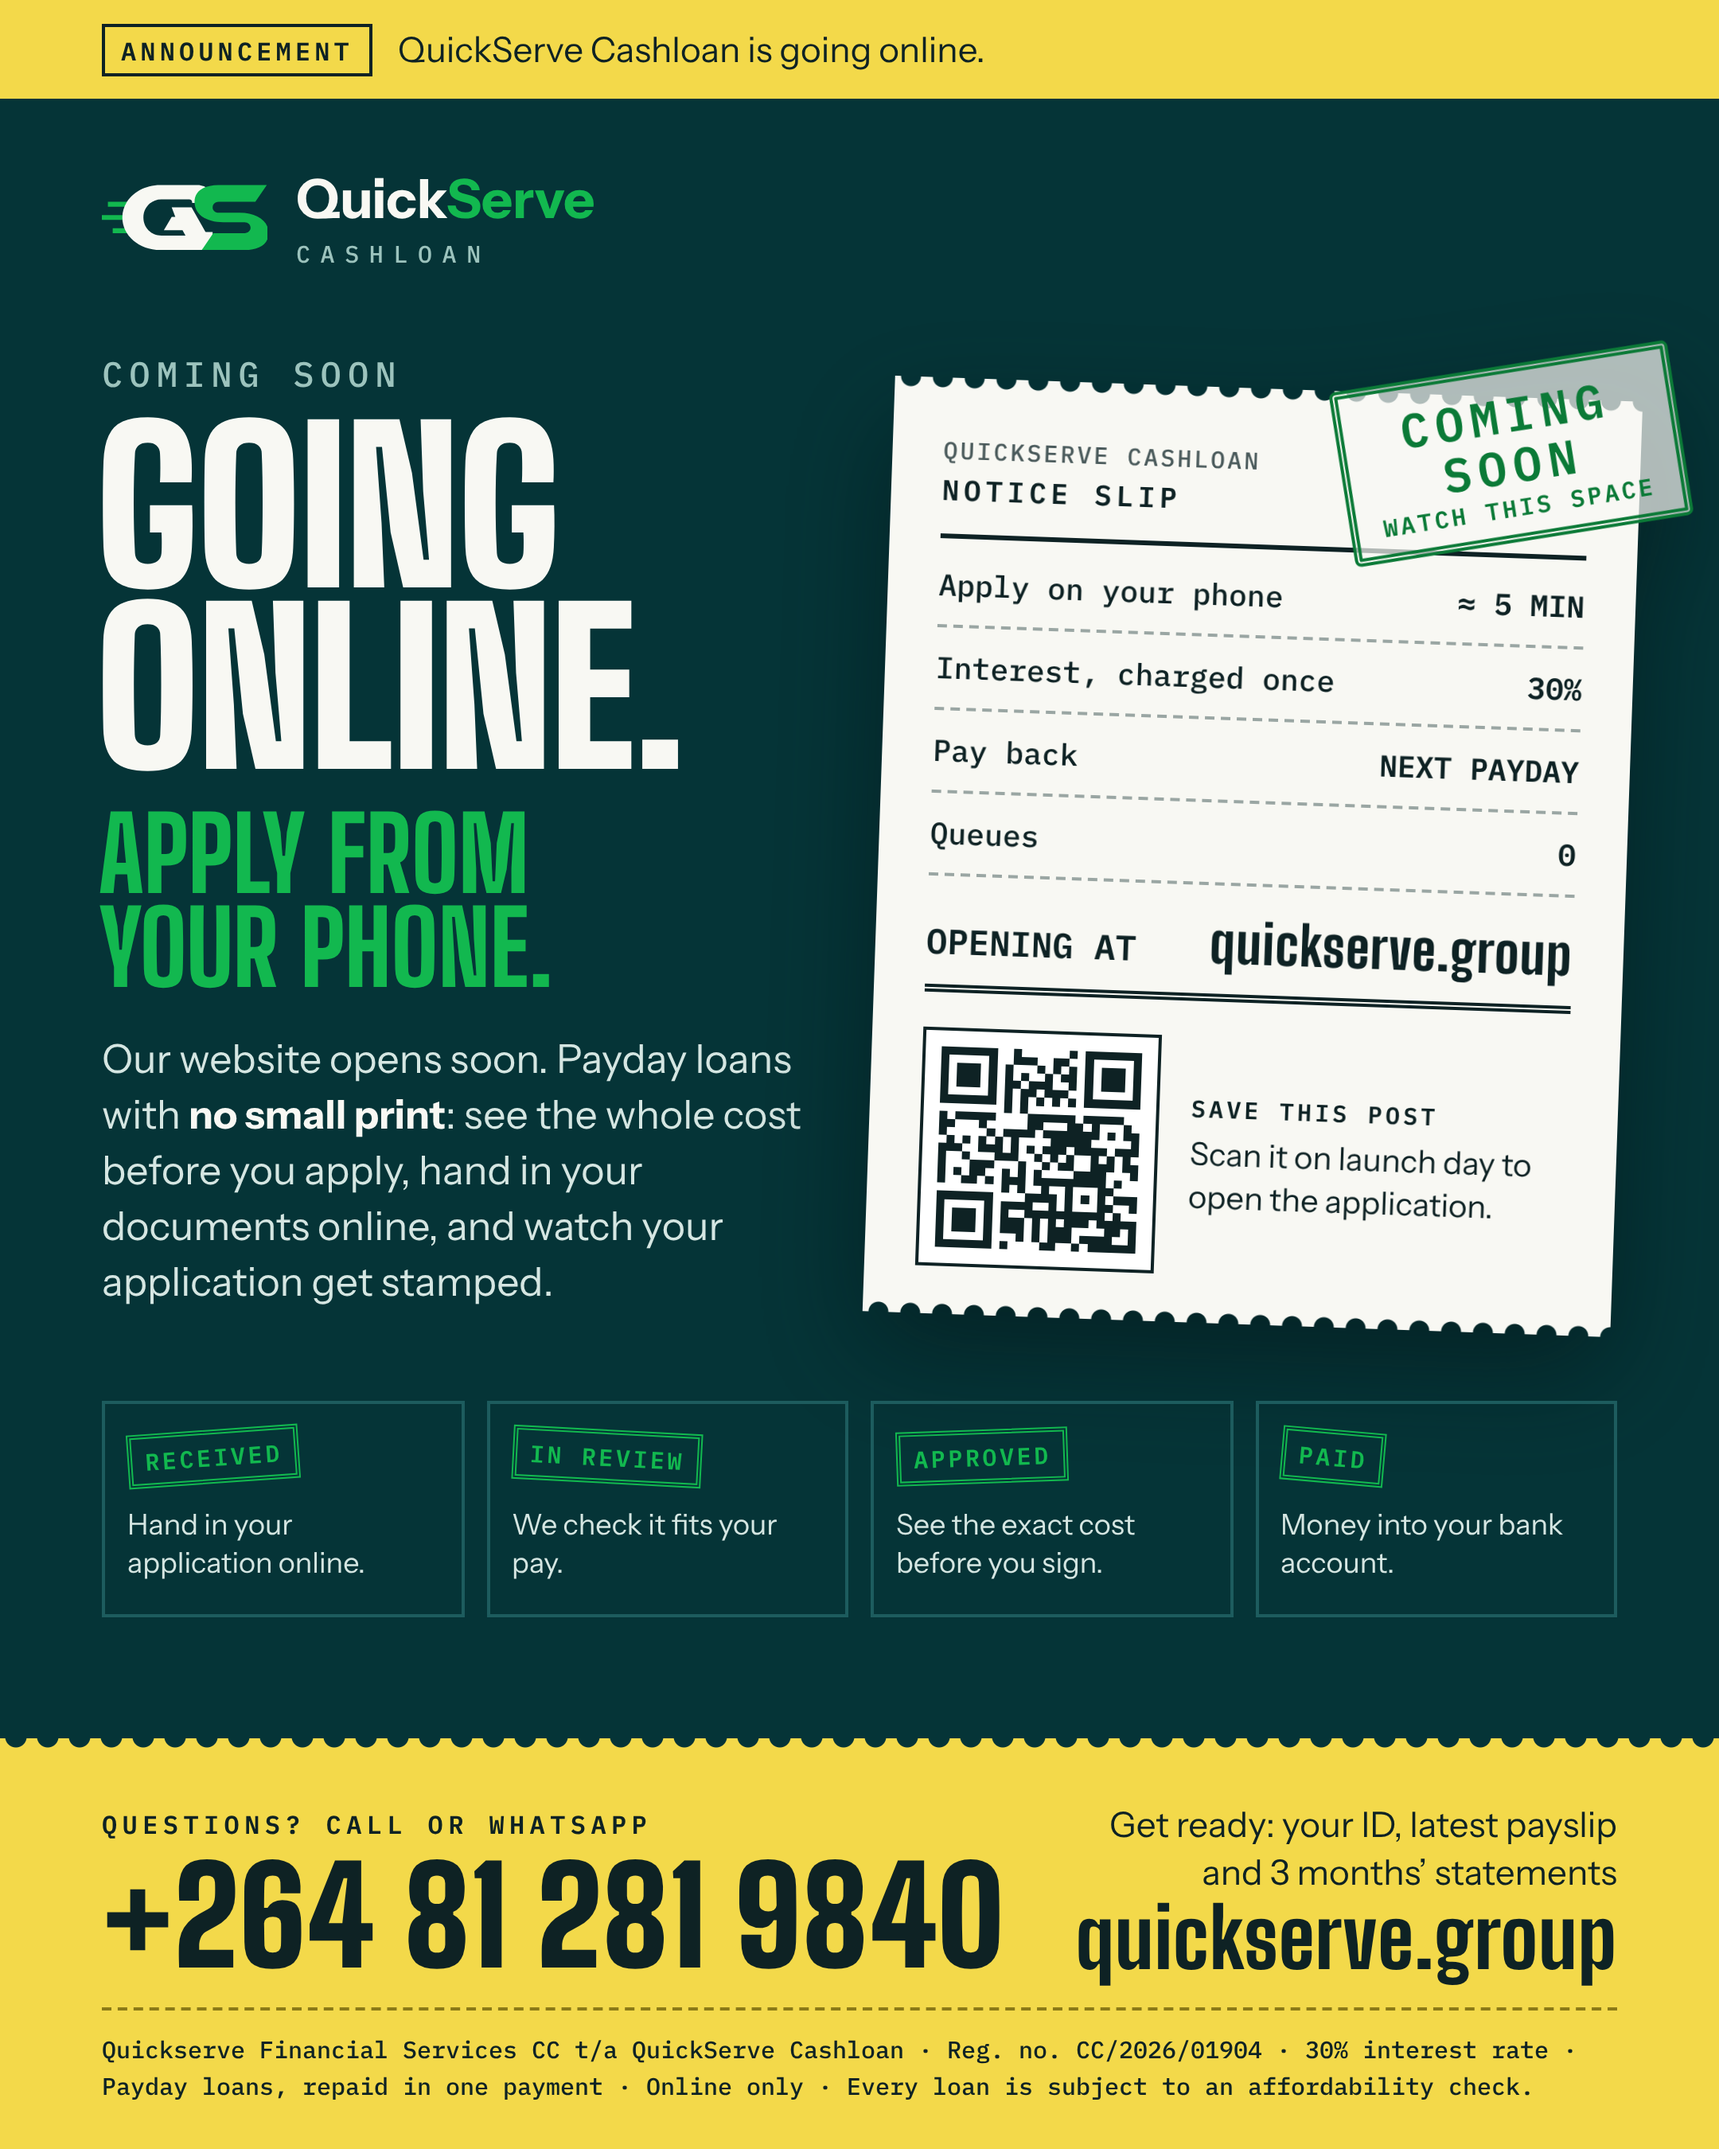
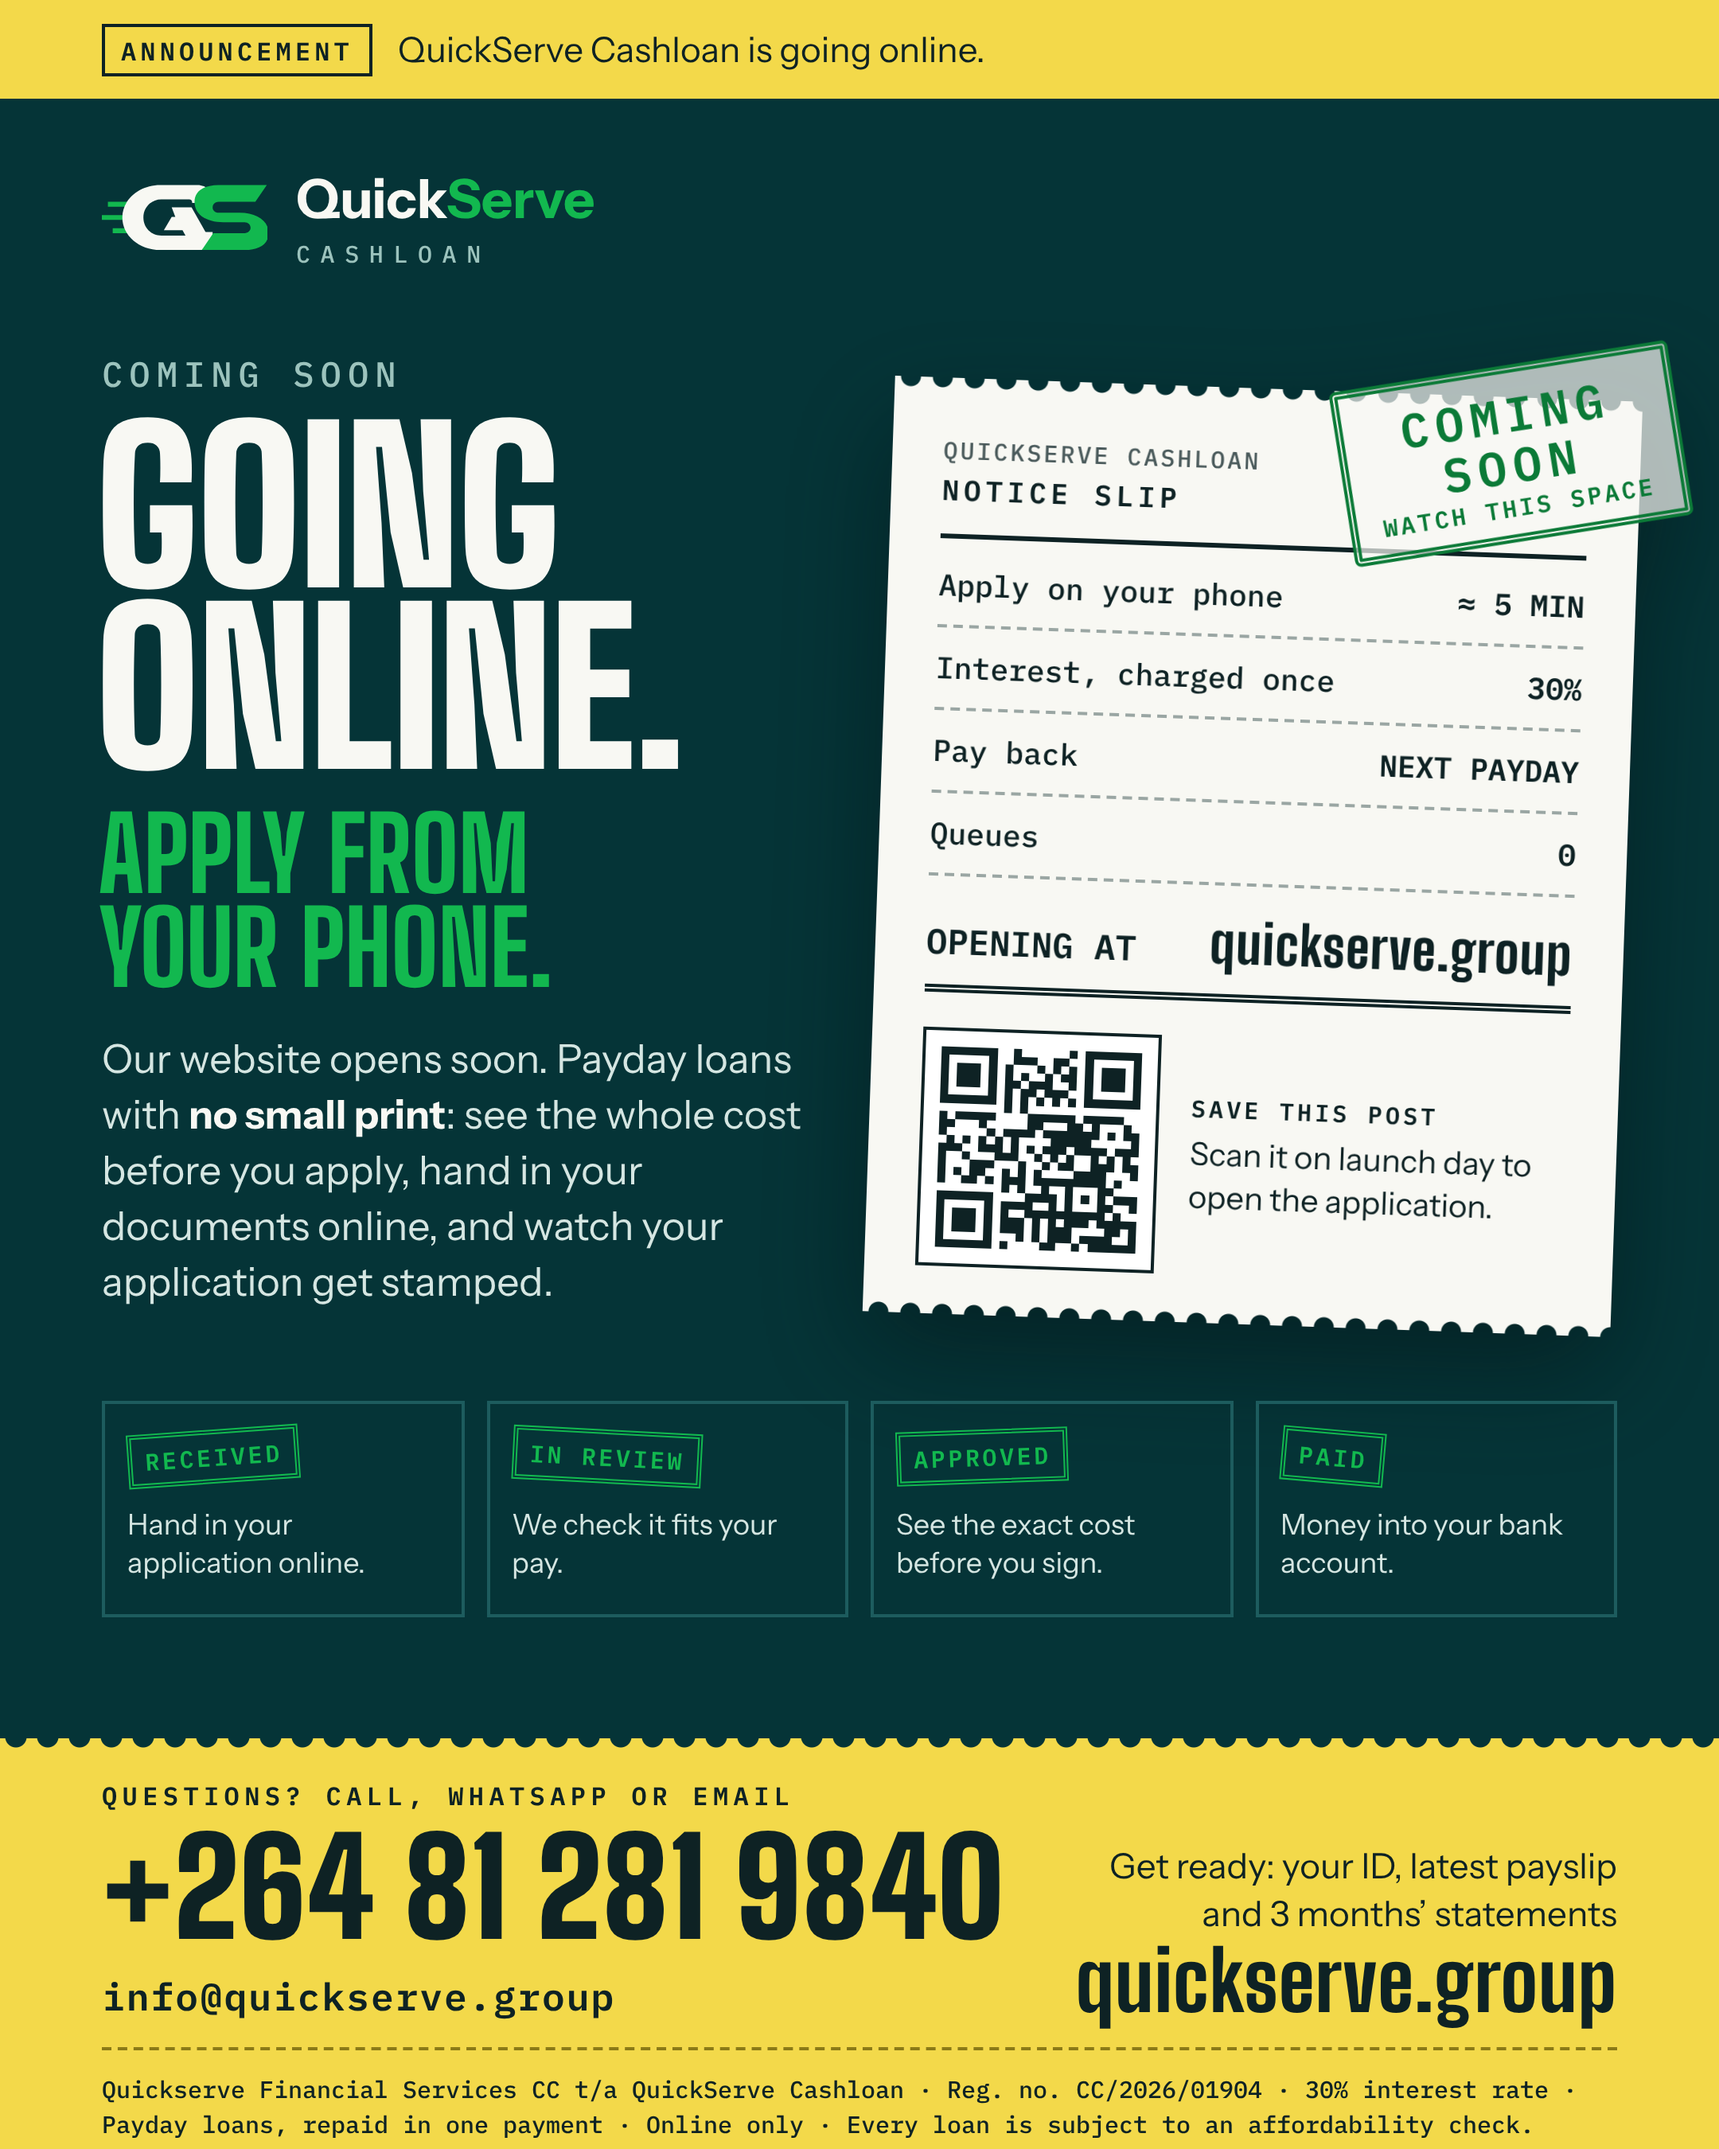
Show info@quickserve.group on the website footer, flyer and posters
The website footer and the marketing artwork only listed the phone
number. Add the info@quickserve.group address (a mailto link on the
website) and re-render the flyer and the four launch / coming-soon
posters. The poster footers and the flyer's contact bar were tightened
slightly to fit the extra line; the renderers' overlap checks pass.

Claude-Session: https://claude.ai/code/session_013xZD9AR4C9LVD4JnKuAJrT

Changed region(s): [[0.062, 0.8089, 0.9616, 0.9956]]

diff --git a/marketing/website-coming-soon-status.html b/marketing/website-coming-soon-status.html
@@ -119,9 +119,10 @@ h2{position:absolute;left:62px;top:508px;width:460px;margin:0;font:800 64px/.92 
 
 .foot{position:absolute;left:0;right:0;bottom:0;height:258px;background:var(--canary);color:var(--ink);padding:0 64px}
 .perf{position:absolute;left:0;right:0;top:-1px;height:16px;background:radial-gradient(circle at 10px 0,var(--desk) 6.5px,transparent 7px) 0 0/20px 16px repeat-x}
-.frow{display:flex;justify-content:space-between;align-items:flex-end;gap:24px;padding-top:40px;padding-bottom:18px;border-bottom:2px dashed #8b7a17}
+.frow{display:flex;justify-content:space-between;align-items:flex-end;gap:24px;padding-top:26px;padding-bottom:16px;border-bottom:2px dashed #8b7a17}
 .frow .k{font:600 16px var(--mono);letter-spacing:.2em}
 .frow .phone{font:900 84px/.95 var(--display);margin-top:8px}
+.frow .mail{font:600 24px var(--mono);letter-spacing:.04em;margin-top:12px}
 .frow .web{text-align:right;font-size:22px;line-height:1.35} .frow .web b{display:block;font:800 52px/1 var(--display);letter-spacing:.01em}
 .legal{margin:14px 0 0;font:500 15px/1.5 var(--mono)}
 
@@ -143,9 +144,9 @@ h2{top:598px;width:960px;font-size:80px}
 .stamp{right:-34px;top:-30px;font-size:36px}
 .steps{top:1528px;left:64px;right:64px;gap:12px}
 .step{min-height:0;padding:12px 12px 10px} .step p{display:none}
-.foot{bottom:150px;height:auto;padding-bottom:22px}
-.frow{padding-top:34px;padding-bottom:0;border-bottom:0}
-.frow .phone{font-size:74px} .frow .web b{font-size:46px}
+.foot{bottom:150px;height:auto;padding-bottom:12px}
+.frow{padding-top:20px;padding-bottom:0;border-bottom:0}
+.frow .phone{font-size:74px} .frow .mail{font-size:22px;margin-top:8px} .frow .web b{font-size:46px}
 .legal{display:none}
 </style>
 </head>
@@ -186,7 +187,7 @@ h2{top:598px;width:960px;font-size:80px}
   <div class="foot">
     <div class="perf"></div>
     <div class="frow">
-      <div><div class="k">QUESTIONS? CALL OR WHATSAPP</div><div class="phone">+264 81 281 9840</div></div>
+      <div><div class="k">QUESTIONS? CALL, WHATSAPP OR EMAIL</div><div class="phone">+264 81 281 9840</div><div class="mail">info@quickserve.group</div></div>
       <div class="web">Get ready: your ID, latest payslip<br>and 3 months’ statements<b>quickserve.group</b></div>
     </div>
     <p class="legal">Quickserve Financial Services CC t/a QuickServe Cashloan · Reg. no. CC/2026/01904 · 30% interest rate · Payday loans, repaid in one payment · Online only · Every loan is subject to an affordability check.</p>

diff --git a/marketing/website-launch-status.html b/marketing/website-launch-status.html
@@ -119,9 +119,10 @@ h2{position:absolute;left:62px;top:508px;width:460px;margin:0;font:800 64px/.92 
 
 .foot{position:absolute;left:0;right:0;bottom:0;height:258px;background:var(--canary);color:var(--ink);padding:0 64px}
 .perf{position:absolute;left:0;right:0;top:-1px;height:16px;background:radial-gradient(circle at 10px 0,var(--desk) 6.5px,transparent 7px) 0 0/20px 16px repeat-x}
-.frow{display:flex;justify-content:space-between;align-items:flex-end;gap:24px;padding-top:40px;padding-bottom:18px;border-bottom:2px dashed #8b7a17}
+.frow{display:flex;justify-content:space-between;align-items:flex-end;gap:24px;padding-top:26px;padding-bottom:16px;border-bottom:2px dashed #8b7a17}
 .frow .k{font:600 16px var(--mono);letter-spacing:.2em}
 .frow .phone{font:900 84px/.95 var(--display);margin-top:8px}
+.frow .mail{font:600 24px var(--mono);letter-spacing:.04em;margin-top:12px}
 .frow .web{text-align:right;font-size:22px;line-height:1.35} .frow .web b{display:block;font:800 52px/1 var(--display);letter-spacing:.01em}
 .legal{margin:14px 0 0;font:500 15px/1.5 var(--mono)}
 
@@ -143,9 +144,9 @@ h2{top:598px;width:960px;font-size:80px}
 .stamp{right:-34px;top:-30px;font-size:36px}
 .steps{top:1528px;left:64px;right:64px;gap:12px}
 .step{min-height:0;padding:12px 12px 10px} .step p{display:none}
-.foot{bottom:150px;height:auto;padding-bottom:22px}
-.frow{padding-top:34px;padding-bottom:0;border-bottom:0}
-.frow .phone{font-size:74px} .frow .web b{font-size:46px}
+.foot{bottom:150px;height:auto;padding-bottom:12px}
+.frow{padding-top:20px;padding-bottom:0;border-bottom:0}
+.frow .phone{font-size:74px} .frow .mail{font-size:22px;margin-top:8px} .frow .web b{font-size:46px}
 .legal{display:none}
 </style>
 </head>
@@ -186,7 +187,7 @@ h2{top:598px;width:960px;font-size:80px}
   <div class="foot">
     <div class="perf"></div>
     <div class="frow">
-      <div><div class="k">QUESTIONS? CALL OR WHATSAPP</div><div class="phone">+264 81 281 9840</div></div>
+      <div><div class="k">QUESTIONS? CALL, WHATSAPP OR EMAIL</div><div class="phone">+264 81 281 9840</div><div class="mail">info@quickserve.group</div></div>
       <div class="web">Bring your ID, latest payslip<br>and 3 months’ statements<b>quickserve.group</b></div>
     </div>
     <p class="legal">Quickserve Financial Services CC t/a QuickServe Cashloan · Reg. no. CC/2026/01904 · 30% interest rate · Payday loans, repaid in one payment · Online only · Every loan is subject to an affordability check.</p>

diff --git a/marketing/website-coming-soon-poster.html b/marketing/website-coming-soon-poster.html
@@ -119,9 +119,10 @@ h2{position:absolute;left:62px;top:508px;width:460px;margin:0;font:800 64px/.92 
 
 .foot{position:absolute;left:0;right:0;bottom:0;height:258px;background:var(--canary);color:var(--ink);padding:0 64px}
 .perf{position:absolute;left:0;right:0;top:-1px;height:16px;background:radial-gradient(circle at 10px 0,var(--desk) 6.5px,transparent 7px) 0 0/20px 16px repeat-x}
-.frow{display:flex;justify-content:space-between;align-items:flex-end;gap:24px;padding-top:40px;padding-bottom:18px;border-bottom:2px dashed #8b7a17}
+.frow{display:flex;justify-content:space-between;align-items:flex-end;gap:24px;padding-top:26px;padding-bottom:16px;border-bottom:2px dashed #8b7a17}
 .frow .k{font:600 16px var(--mono);letter-spacing:.2em}
 .frow .phone{font:900 84px/.95 var(--display);margin-top:8px}
+.frow .mail{font:600 24px var(--mono);letter-spacing:.04em;margin-top:12px}
 .frow .web{text-align:right;font-size:22px;line-height:1.35} .frow .web b{display:block;font:800 52px/1 var(--display);letter-spacing:.01em}
 .legal{margin:14px 0 0;font:500 15px/1.5 var(--mono)}
 </style>
@@ -163,7 +164,7 @@ h2{position:absolute;left:62px;top:508px;width:460px;margin:0;font:800 64px/.92 
   <div class="foot">
     <div class="perf"></div>
     <div class="frow">
-      <div><div class="k">QUESTIONS? CALL OR WHATSAPP</div><div class="phone">+264 81 281 9840</div></div>
+      <div><div class="k">QUESTIONS? CALL, WHATSAPP OR EMAIL</div><div class="phone">+264 81 281 9840</div><div class="mail">info@quickserve.group</div></div>
       <div class="web">Get ready: your ID, latest payslip<br>and 3 months’ statements<b>quickserve.group</b></div>
     </div>
     <p class="legal">Quickserve Financial Services CC t/a QuickServe Cashloan · Reg. no. CC/2026/01904 · 30% interest rate · Payday loans, repaid in one payment · Online only · Every loan is subject to an affordability check.</p>

diff --git a/marketing/website-launch-poster.html b/marketing/website-launch-poster.html
@@ -119,9 +119,10 @@ h2{position:absolute;left:62px;top:508px;width:460px;margin:0;font:800 64px/.92 
 
 .foot{position:absolute;left:0;right:0;bottom:0;height:258px;background:var(--canary);color:var(--ink);padding:0 64px}
 .perf{position:absolute;left:0;right:0;top:-1px;height:16px;background:radial-gradient(circle at 10px 0,var(--desk) 6.5px,transparent 7px) 0 0/20px 16px repeat-x}
-.frow{display:flex;justify-content:space-between;align-items:flex-end;gap:24px;padding-top:40px;padding-bottom:18px;border-bottom:2px dashed #8b7a17}
+.frow{display:flex;justify-content:space-between;align-items:flex-end;gap:24px;padding-top:26px;padding-bottom:16px;border-bottom:2px dashed #8b7a17}
 .frow .k{font:600 16px var(--mono);letter-spacing:.2em}
 .frow .phone{font:900 84px/.95 var(--display);margin-top:8px}
+.frow .mail{font:600 24px var(--mono);letter-spacing:.04em;margin-top:12px}
 .frow .web{text-align:right;font-size:22px;line-height:1.35} .frow .web b{display:block;font:800 52px/1 var(--display);letter-spacing:.01em}
 .legal{margin:14px 0 0;font:500 15px/1.5 var(--mono)}
 </style>
@@ -163,7 +164,7 @@ h2{position:absolute;left:62px;top:508px;width:460px;margin:0;font:800 64px/.92 
   <div class="foot">
     <div class="perf"></div>
     <div class="frow">
-      <div><div class="k">QUESTIONS? CALL OR WHATSAPP</div><div class="phone">+264 81 281 9840</div></div>
+      <div><div class="k">QUESTIONS? CALL, WHATSAPP OR EMAIL</div><div class="phone">+264 81 281 9840</div><div class="mail">info@quickserve.group</div></div>
       <div class="web">Bring your ID, latest payslip<br>and 3 months’ statements<b>quickserve.group</b></div>
     </div>
     <p class="legal">Quickserve Financial Services CC t/a QuickServe Cashloan · Reg. no. CC/2026/01904 · 30% interest rate · Payday loans, repaid in one payment · Online only · Every loan is subject to an affordability check.</p>

diff --git a/marketing/quickserve-flyer.html b/marketing/quickserve-flyer.html
@@ -153,7 +153,7 @@ body {
 /* ---------- contact bar ---------- */
 .contact {
   position: absolute; left: 62px; right: 62px; bottom: 96px; z-index: 5;
-  height: 148px; border-radius: 26px;
+  height: 170px; border-radius: 26px;
   border: 2.5px solid rgba(10,91,84,.34);
   background: rgba(255,255,255,.55);
   display: flex; align-items: center; padding: 0 32px; gap: 26px;
@@ -178,11 +178,16 @@ body {
   display: inline-block; background: var(--amber);
   color: #3d2a00; font-weight: 600; font-size: 19px;
   letter-spacing: 1.6px; padding: 7px 17px; border-radius: 7px;
-  margin-bottom: 9px;
+  margin-bottom: 6px;
 }
 .contact .digits {
   font-weight: 700; font-size: 46px; color: var(--ink);
   letter-spacing: -1.4px; white-space: nowrap;
+}
+
+.contact .mail {
+  font-family: Inter, sans-serif; font-weight: 600; font-size: 21px;
+  color: var(--body); letter-spacing: -0.2px; white-space: nowrap; margin-top: 2px;
 }
 
 /* ---------- compliance disclosure ribbon ---------- */
@@ -403,6 +408,7 @@ body {
     <span class="pill">CONTACT US</span>
     <!-- ===== CONTACT NUMBER — edit this one line ===== -->
     <div class="digits">+264 81 281 9840</div>
+    <div class="mail">info@quickserve.group</div>
   </div>
 </div>
 

diff --git a/web/styles.css b/web/styles.css
@@ -156,6 +156,8 @@ button, input, select, textarea { font: inherit; color: inherit; }
 .perf-edge { height: 14px; background: radial-gradient(circle at 9px 0, var(--edge, var(--ground)) 5px, transparent 5.5px) 0 0 / 18px 14px repeat-x; }
 .foot .row { display: flex; flex-wrap: wrap; justify-content: space-between; gap: 32px; padding-top: 36px; padding-bottom: 26px; border-bottom: 1.5px dashed #8b7a17; }
 .foot .phone { margin: 8px 0 0; font-family: var(--display); font-weight: 900; font-size: clamp(44px, 7vw, 72px); line-height: .95; }
+.foot .mail { margin: 4px 0 0; font-family: var(--mono); font-size: 15px; letter-spacing: .02em; }
+.foot .mail a { color: inherit; text-decoration: underline; text-underline-offset: 3px; }
 .foot .cols { display: flex; flex-wrap: wrap; gap: 40px; font-size: 15px; }
 .foot .cols div { display: flex; flex-direction: column; gap: 6px; }
 .foot .cols b { font-family: var(--mono); font-size: 12px; letter-spacing: .16em; }

diff --git a/web/_partials/footer.html b/web/_partials/footer.html
@@ -6,6 +6,7 @@
         <p class="eyebrow">Customer copy · keep this</p>
         <p class="phone">+264 81 281 9840</p>
         <p style="margin:6px 0 0">Call or WhatsApp · Online only</p>
+        <p class="mail"><a href="mailto:info@quickserve.group">info@quickserve.group</a></p>
       </div>
       <div class="cols">
         <div><b>BORROW</b><a href="/apply">Apply</a><a href="/track">Track an application</a><a href="/#fineprint">The cost</a></div>
